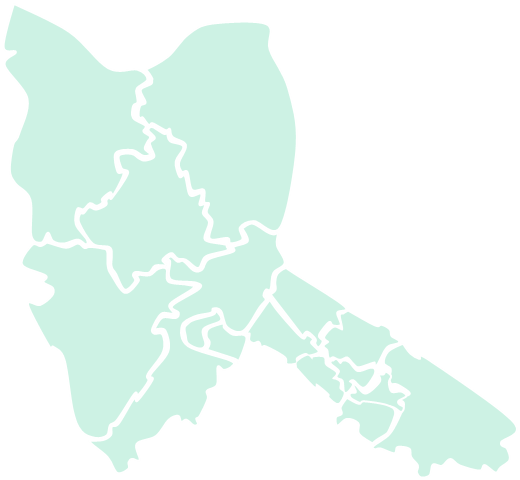
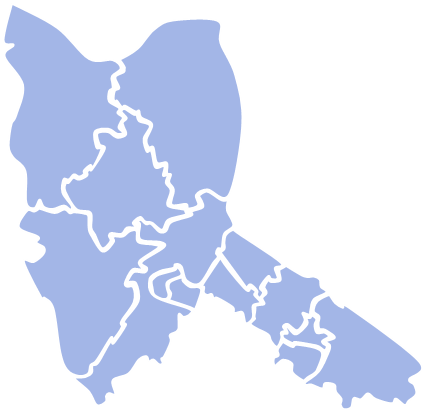
choi:css 수정 및 검색 페이지 작업

diff --git a/src/pages/SearchList.jsx b/src/pages/SearchList.jsx
@@ -1,63 +1,77 @@
 import React,{useState, useEffect} from 'react'
 import axios from 'axios'
-import { Link, useLocation }from 'react-router-dom'
+import { Link }from 'react-router-dom'
 import TopNav from '../layout/TopNav'
 import Footer from '../layout/Footer'
 import {BsSearch} from 'react-icons/bs'
 import '../assets/css/searchlist.css';
 
+// const user = [
+//   { id:1 , name: '이나영'},
+//   { id:2 , name: '김태희'},
+//   { id:3 , name: '다음'},
+//   { id:4 , name: '네이버'},
+//   { id:5 , name: 'daum'},
+//   { id:6 , name: 'Naver'},
+//   { id:7 , name: 'GOOGLE'},
+//   { id:8 , name: '김다미'},
+//   { id:9 , name: '다람쥐'},
+//   { id:10 , name: 'TIGER'},
+//   { id:11 , name: '홍대'},
+//   { id:12 , name: '강남'},
+//   { id:13 , name: '영등포'},
+// ]
 
 const SearchList = ({burl}) => {
+  const [data,setData] = useState([]); // api data 담기
+  const [text, setText] = useState(''); // input 입력되는 글자
+  const [filters, setFilters] = useState(data); // 필터링 글자
 
-  const location = useLocation();
-    // console.log(location););
+  console.log(data);
 
-  const [data, setData] = useState([]);
-  const [item, setItem] = useState('');
-
-  const getSearch = async() => {
-    try{
-        const response = await axios.get(burl);
-        const test =response.data.SynthesizeHospital[1].row;            
-        
-        // 편의점 제외한 전체 데이터
-        const result = test.filter(elem => elem.TREAT_SBJECT_CONT !== null);
-        console.log(result);  
-
-        // 내과
-        const inData = result.filter((elem)=>{
-          return (elem.BIZPLC_NM.includes("내과"));
-      })
-
-        setData(inData);
-    }catch(e){
-      console.log(e);
+  useEffect(()=> {
+    const getSearch = async() => {
+      try{
+          const res = await axios.get(burl);
+          const test = res.data.SynthesizeHospital[1].row;
+  
+          setData(test);
+          console.log(data);
+      }catch(e){
+          console.log(e);
+      }
     }
-    
-  }
+  })
+  
 
-  useEffect(()=>{
-    getSearch();
-}, []);
+  // useEffect(() => {
+  //   setFilters(data.filter(item => item.TREAT_SBJECT_CONT.includes(text.toLowerCase())))
+  // }, [text])
+
 
   return (
     <>
         <TopNav/>
         <div className='container'>
             <div className="search-world position-relative mt-5 d-flex">
-              <input type="search" placeholder='검색어를 입력하세요.' className='col-8 searchbox form-control'/>
-              <button type="submit" className=" btn col-2 m-1">
+              <input type="text" value={text} placeholder='검색어를 입력하세요.' className='col-8 searchbox form-control' onChange={e => setText(e.target.value)}/>
+              <button type="submit" className=" btn col-2 m-1" >
                 <BsSearch size={23} className='sicon position-absolute'/>
               </button>
             </div>
             <div className="obj-list mt-5 mb-5">
             <div className='list-header'><a href="#">병원명</a><span>주소</span></div>
-            {data.map((blogData, idx)=>{
+            {/* {data.map((item, idx)=>{
                             return <div className='lists' key={idx}>
                               <Link to="/detail" state={{ title : blogData.BIZPLC_NM, address : blogData.REFINE_LOTNO_ADDR, lat : blogData.REFINE_WGS84_LAT, logt : blogData.REFINE_WGS84_LOGT}}>{blogData.BIZPLC_NM}</Link>
                                   <span>{blogData.REFINE_LOTNO_ADDR}</span>
                               </div>;
-                        })} 
+                        })}  */}
+            {
+              filters.map(item => <div className='lists' key={item.TREAT_SBJECT_CONT}>
+                {item.TREAT_SBJECT_CONT }
+              </div>)
+            }
           </div>
         </div>
         <Footer/>

diff --git a/src/components/Popup.jsx b/src/components/Popup.jsx
@@ -3,9 +3,6 @@ import styles from '../assets/css/popup.module.css';
 import { useCookies } from 'react-cookie';
 import { RiCloseLine } from "react-icons/ri";
 import { RiErrorWarningLine } from "react-icons/ri";
-import { SiGithub } from "react-icons/si";
-import { GoPin } from "react-icons/go";
-import { FaMapPin } from "react-icons/fa";
 
 const Popup = () => {
   const [open, setOpen] = useState(true); // 쿠키 팝업
@@ -49,15 +46,13 @@ const Popup = () => {
     }else setHasCookie(false);
   }, []);
 
-  // 닫기 버튼을 누를 때마다 실행될 코드.
+  // 닫기 버튼을 누를 때
   useEffect(() => {
-    // 체크되지 않은 상태에서 모달을 닫을 경우
     if (!checked && !open) {
       return;
     }
-    // 체크된 상태에서 모달을 닫을 경우
     if (checked && !open) {
-      //쿠키를 저장하는 핵심 코드
+      //쿠키를 저장
       const expires = getExpiredDate(1);
       setCookies("smile_cookie", true, { path: "/", expires });
     }

diff --git a/src/App.js b/src/App.js
@@ -12,7 +12,6 @@ import Register from './pages/Register';
 import BookMark from './pages/BookMark';
 import NotLogin from './pages/NotLogin';
 import UserinfoEdit from './pages/UserinfoEdit';
-import SearchList from './pages/SearchList';
 import HealthInfo from './pages/HealthInfo';
 import ReservList from './pages/ReservList';
 import ObjList from './components/ObjList'
@@ -52,7 +51,6 @@ const App = () => {
           <Route path='/login' element={<Login/>}/>
           <Route path='/register' element={<Register userinfo={userinfo} isLogged={isLogged}/>}/>
           <Route path='/notlogin' element={<NotLogin/>}/>
-          {/* <Route path='/searchlist' element={<SearchList/>}/> */}
           <Route path='/searchapi' element={<SearchApi/>}/>
           <Route path='/healthinfo' element={<HealthInfo/>}/>
           <Route path='/detail' element={<InfoDetail/>}/>

diff --git a/src/assets/css/imagemap.css b/src/assets/css/imagemap.css
@@ -1,24 +1,12 @@
-@import url('https://fonts.googleapis.com/css2?family=Noto+Sans+KR:wght@100;200;300;400;500;600;700;800;900&display=swap');
-
-body{
-    /* overflow: hidden; */
-    font-family: 'Noto Sans KR', sans-serif;
-}
 .map-container h2{
     margin-top: 80px;
     font-weight: 600;
   }
 
 .map-container h2 span{
-    color: #bbd0c6;
+    color: #3E54AC;
     font-weight: 600;
   }
-
-  /* .map-container h2 p{
-    font-size: 11px;
-    margin-top: 12px;
-    color: #a39f9f;
-  } */
 
 .map-container h4{
     font-size: 15px;

diff --git a/src/assets/css/medobj.css b/src/assets/css/medobj.css
@@ -12,7 +12,6 @@
     margin-top: 14px;
 }
 .obj-list{
-    /* border: 1px solid #333; */
     height: auto;
     border-radius: 15px;
 }
